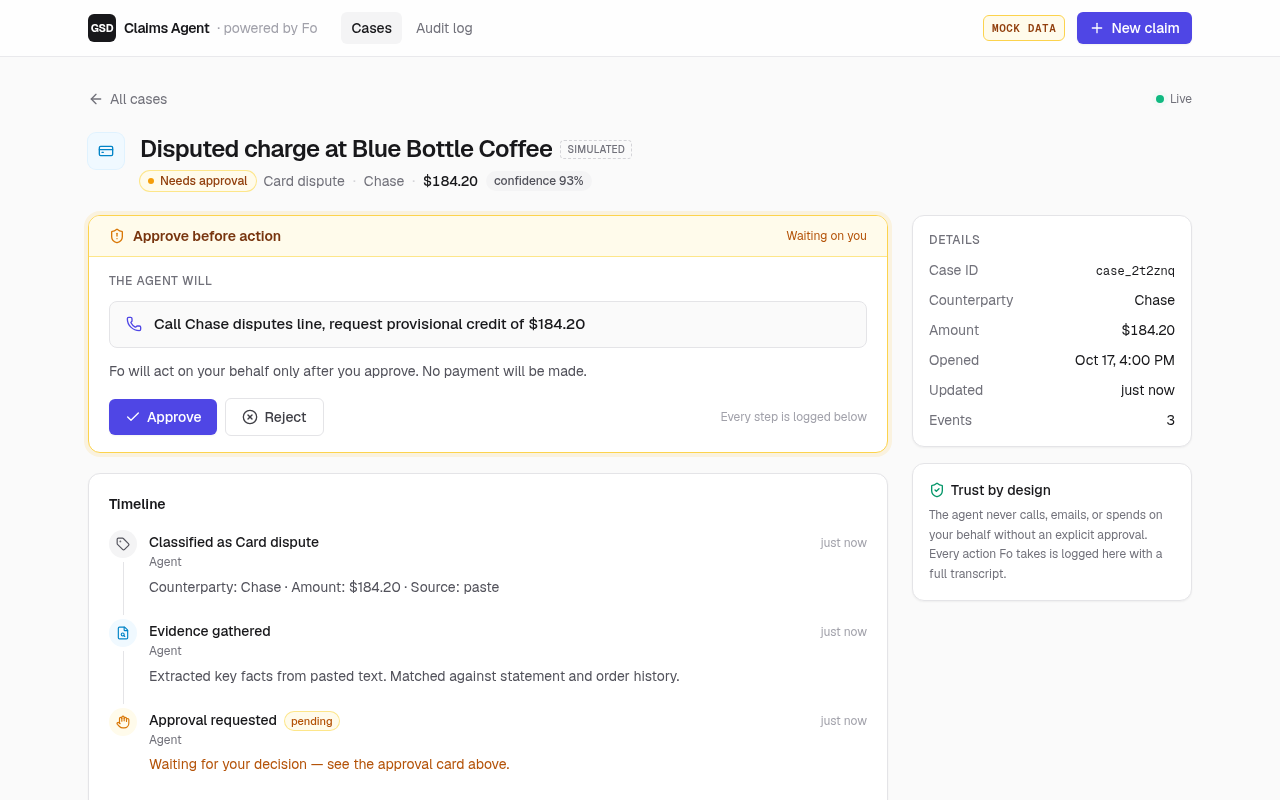
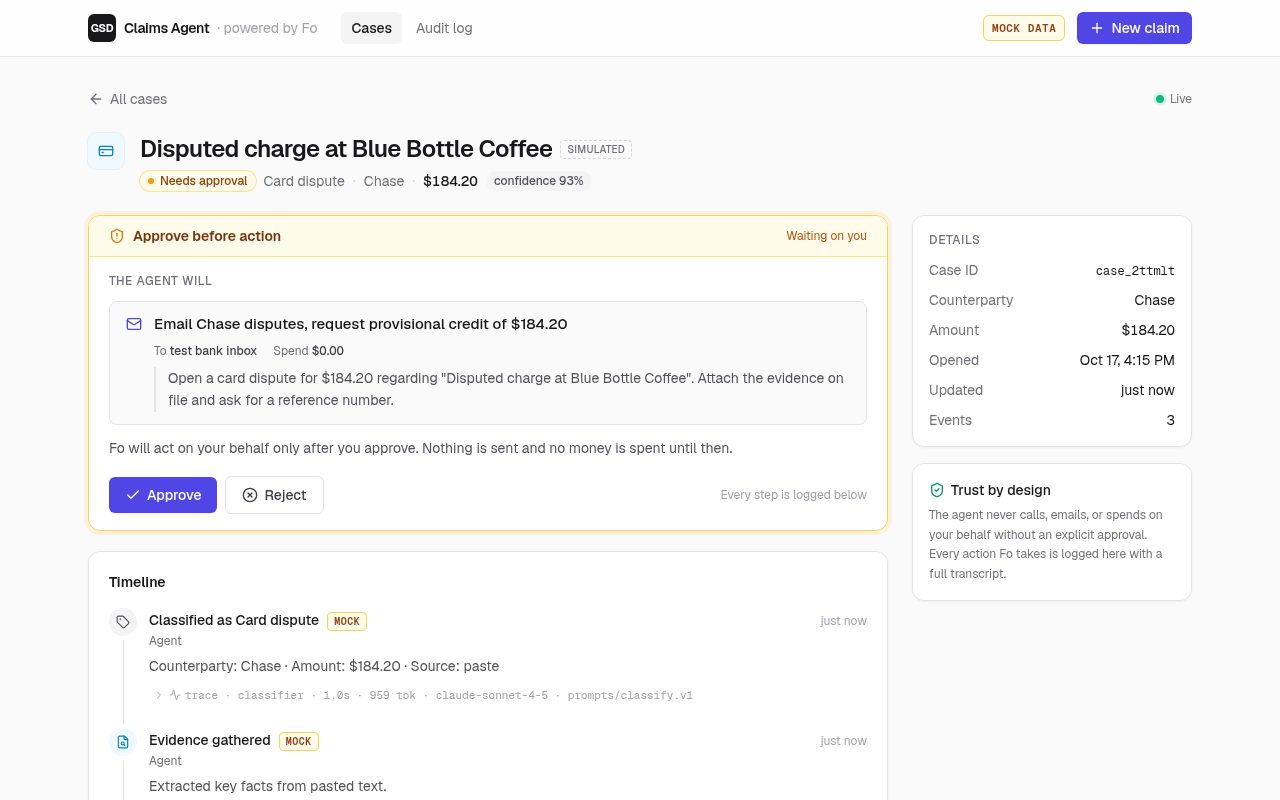
web: retake demo screenshots and add the PR description
The old screenshots showed call transcripts and raw recipient addresses,
both of which the email-only, masked-recipient demo rules now forbid. Every
image was retaken after those changes (mock: a-h, live: i-o) and checked by
eye. PR_DESCRIPTION.md fills in the team PR gate template with what was
actually verified and what is still missing (no CI, no Docker image, review
pending).

Changed region(s): [[0.0625, 0.375, 0.7188, 1.0], [0.8438, 0.4375, 0.9062, 0.4688]]

diff --git a/web/PR_DESCRIPTION.md b/web/PR_DESCRIPTION.md
@@ -1,0 +1,64 @@
+# feature/web-dashboard → main: GSD Claims Agent web dashboard
+
+## What
+A Next.js 15 (App Router, TypeScript, Tailwind) dashboard in `web/` for the claims agent built on Fo:
+- **Submit a claim** (Paste / Upload filenames / Forward), **case list** with live status, **case timeline**
+  with an **Approve before action** card, and a hash-chained **Audit log** page.
+- **Live updates** over SSE (`/api/stream`), falling back to 3 s polling.
+- **Two modes behind one switch:** with `NEXT_PUBLIC_API_BASE` unset, an in-memory mock API + simulator
+  (header badge **MOCK DATA**). With `NEXT_PUBLIC_API_BASE=http://localhost:8000`, it talks to `feature/api` (header badge `API localhost:8000`).
+- **Demo-safety display rules:** email only (`NEXT_PUBLIC_DEMO_HIDE_CALLS`, on by default, hides call steps).
+  Every outbound recipient shows as "test bank inbox". Simulated steps (`mock: true` or a `[MOCK]` title) get an amber **MOCK** badge.
+- **Observability:** a collapsed per-step **trace** row (agent · duration · tokens · model · prompt id), red on errors and amber on grounding problems.
+  Evidence fields show present/absent/ambiguous dots, and you can click to see the citation.
+- Contract: `web/API_CONTRACT.md`. Run/config/limits: `web/README.md`.
+
+## Why
+The 2-minute judged demo needs to show (1) live progress, (2) "trust by design": nothing is sent until a human approves exactly what Fo will do,
+and every step is auditable, and (3) honesty about what is simulated. Team decisions folded in: email-only contacts, test stand-in recipients only,
+and the trace record per event (FDE — Observability and tracing — trace record per step).
+
+## Look hardest at
+1. `web/lib/demo.ts`: recipient masking is **display-only and pattern-based** (any non-sender address → "test bank inbox").
+   If the backend ever sends an address in a field we don't pass through `maskEmails`/`maskAddress`, it would show. Fields covered: approval
+   To/message/headline/detail, email From/To/Cc/Subject/Body, event title/detail, transcripts, evidence values/citations, trace JSON, audit details, case title/counterparty.
+2. `web/app/cases/[id]/page.tsx` `ApprovalCard`: buttons disable on first click, and a 409 shows "Already decided" and refetches. Is that the right UX for double-approve?
+3. `DEMO_HIDE_CALLS` hides call events from the **timeline only**. The audit log still shows every row the backend records (by design, so the audit is never filtered).
+4. `web/lib/mockStore.ts` is demo-only state kept in a process global (`globalThis.__gsdStore`). It resets on restart, which is fine for a demo but not durable.
+
+## How tested (verified by me)
+- `npm run check` → `eslint .` 0 problems; `tsc --noEmit` 0 errors.
+- Headless Chrome (Playwright) at 1280×800, **mock mode**: `node scripts/screenshots.mjs`. Seeded cases render; submit → classified → evidence →
+  approval card; approve → email → reply → follow-up → resolved; prompt-injection text escalates with nothing sent.
+- **Live mode** against `feature/api` 76039ad on :8000: `node scripts/live-check.mjs`. Paste a card dispute → approval card (email, To "test bank inbox",
+  $0.00 spend) → Approve → events stream over SSE (`200 /api/stream`). Timeline was `note > classified > evidence_gathered > approval_requested > approved >
+  email_sent > follow_up_scheduled > reply_received > resolved`. The script asserted 0 call steps, 0 raw addresses in page text, and 0 titles still prefixed "[MOCK]".
+  Injection and out-of-scope (`type: other`) cases escalate. The audit page shows "Hash chain verified".
+- 409 on a second approve confirmed with curl against the backend.
+- Searched `web/` source, `.next/` build output and `screenshots/` for the two forbidden real-inbox identifiers (per team note): 0 matches each. Every screenshot was also reviewed by eye.
+
+## Pre-deployment gate
+(Template from Master.md, Module 12, filled in honestly for this branch.)
+- Automated checks: **lint (`eslint`) and typecheck (`tsc --noEmit`) are green locally**. pytest/flake8/mypy don't apply to this TypeScript app.
+  **There is no CI pipeline in this repo yet**, so nothing is green "in the pipeline". No unit tests yet; the Playwright scripts are the behavioral check.
+- Docker image: **not built** for `web/`. Data persistence: **N/A**. The web app holds no durable data; the mock store is in memory by design.
+- Self-review: done (diff read in full; no debug leftovers, no secrets, `.env*` ignored).
+- Code review: **<pending: name / date>**.
+- README answers the five questions (what, how to run, how to check, configuration, known limitations): `web/README.md`.
+
+## How I ran it
+```bash
+cd web && npm install
+./scripts/restart.sh                          # mock mode on http://localhost:3100
+node scripts/screenshots.mjs                  # mock-mode screenshots
+./scripts/restart.sh http://localhost:8000    # live mode (backend must allow CORS from :3100)
+node scripts/live-check.mjs                   # live end-to-end check + screenshots
+npm run check                                 # eslint + tsc
+```
+
+## Cloud / limits
+- Local dev server only (`next dev` on :3100), started in the background. No production build or deploy.
+- `NEXT_PUBLIC_*` values are baked in at start, so switching modes needs a restart.
+- Mock data resets on restart, and the screenshot scripts add cases to whichever store they hit.
+- Backend observations (not fixed here): the live approval message once carried date `2024-10-09` while evidence said `2026-10-09`.
+  Errors use `{detail}`, not the contract's `{error}`. The UI reads both.
